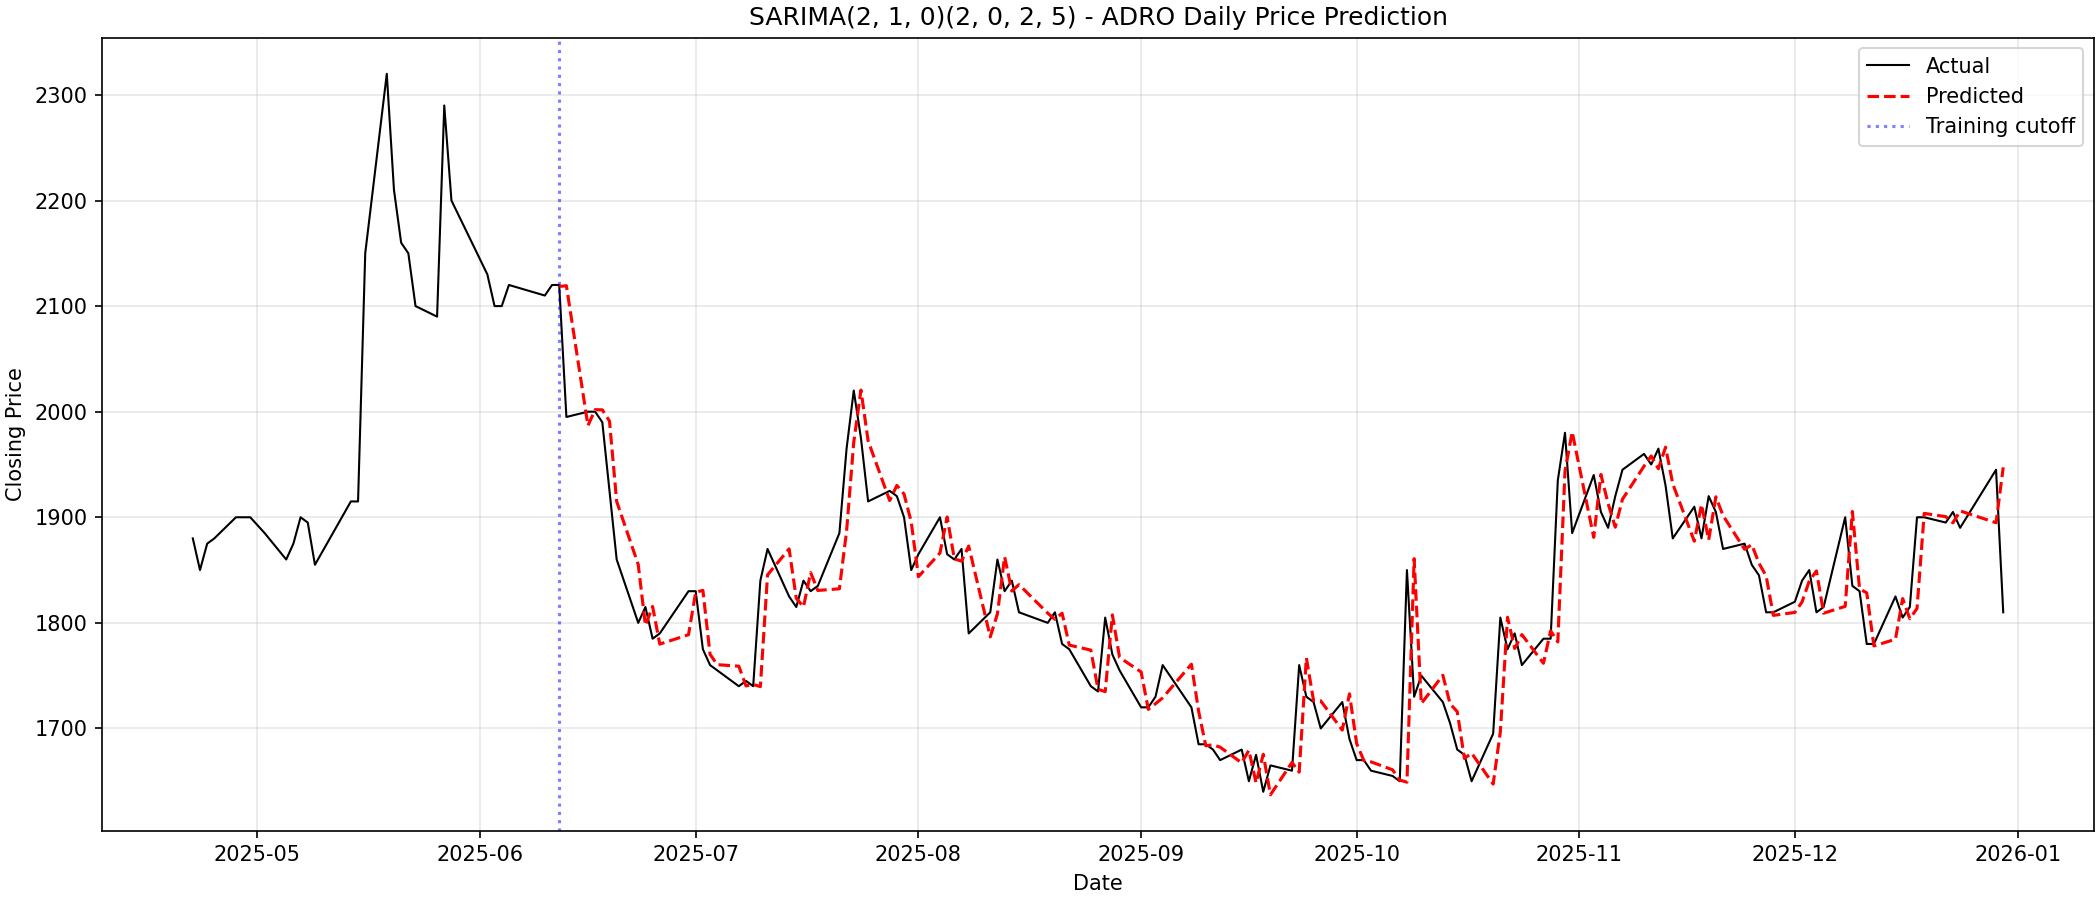
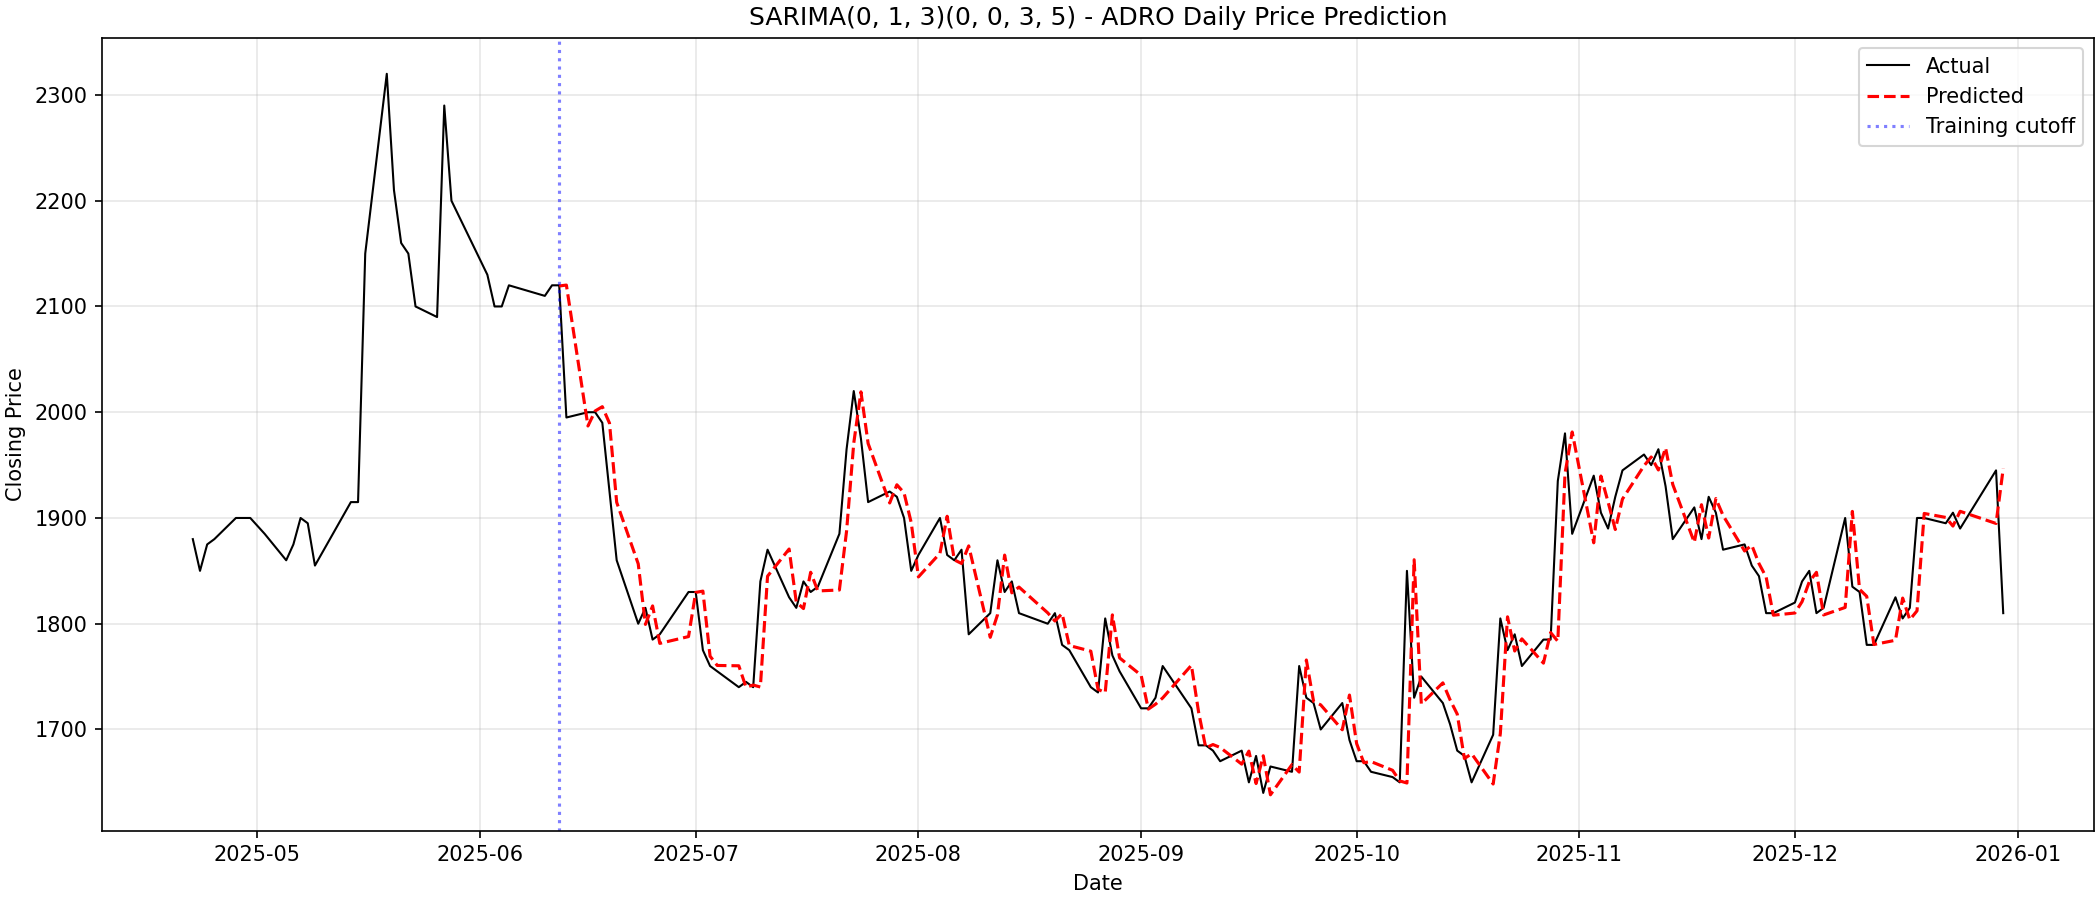
SARIMA Tuning - Added tuning process and analysis for SARIMA model - Four combinations of tuning were tested - Results saved in CSV format for further analysis - Regenerate plots and CSV for SARIMA model with parameters based on tuning results

diff --git a/tuning/SARIMA/sarima_tuning.py b/tuning/SARIMA/sarima_tuning.py
@@ -18,7 +18,7 @@ def list_ticker_name(tickers, processed_dataset_path):
         tickers.append(f.name)
 
 def load_data(ticker, processed_dataset_path):
-    dataset = pd.read_csv(processed_dataset_path / ticker, parse_dates = ["time"], index_col = "time")
+    dataset = pd.read_csv(processed_dataset_path / ticker, parse_dates=["time"], index_col="time")
     training_data, validation_data, testing_data = split(dataset["close"])
     return dataset, training_data, validation_data, testing_data
 
@@ -33,25 +33,34 @@ def find_d(time_series):
         p_value = adf_test(current)
         if p_value <= 0.05 or d >= 2:
             break
+
         current = current.diff().dropna()
         d += 1
+
     return d
 
-def grid_search(train_data, d, max_pq, criterion):
-    best_p, best_q = 0, 0
+def grid_search(train_data, d, s, criterion, D = 0):
+    best_pdq = (0, d, 0)
+    best_seasonal = (0, D, 0, s)
     best_score = float('inf')
-    for i in range(max_pq):
-        for j in range(max_pq):
-            try:
-                model = SARIMAX(train_data, order = (i, d, j), enforce_stationarity = False, enforce_invertibility = False)
-                fitted = model.fit(disp = False)
-                score = fitted.aic if criterion == "AIC" else fitted.bic
-                if score < best_score:
-                    best_score = score
-                    best_p, best_q = i, j
-            except Exception:
-                continue
-    return best_p, best_q
+    
+    for p in range(4):
+        for q in range(4):
+            for P in range(4):
+                for Q in range(4):
+                    try:
+                        model = SARIMAX(train_data, order = (p, d, q), seasonal_order = (P, D, Q, s), enforce_stationarity = False, enforce_invertibility = False)
+                        fitted = model.fit(disp = False)
+                        score = fitted.aic if criterion == "AIC" else fitted.bic
+                        if score < best_score:
+                            best_score = score
+                            best_pdq = (p, d, q)
+                            best_seasonal = (P, D, Q, s)
+
+                    except Exception:
+                        continue
+
+    return best_pdq, best_seasonal
 
 def run_config(config, tickers, processed_dataset_path):
     config_results = []
@@ -59,14 +68,17 @@ def run_config(config, tickers, processed_dataset_path):
         dataset, training_data, validation_data, testing_data = load_data(ticker, processed_dataset_path)
 
         d = find_d(training_data)
-        p, q = grid_search(training_data, d, config["max_pq"], config["criterion"])
+        order, seasonal = grid_search(training_data, d, config["s"], config["criterion"])
 
         history = list(training_data.values) + list(validation_data.values)
         prediction = []
         for i in range(len(testing_data)):
-            model = SARIMAX(history, order = (p, d, q), enforce_stationarity = False, enforce_invertibility = False)
-            fitted = model.fit(disp = False)
-            prediction.append(fitted.forecast(steps = 1)[0])
+            try:
+                model = SARIMAX(history, order = order, seasonal_order = seasonal, enforce_stationarity = False, enforce_invertibility = False)
+                fitted = model.fit(disp = False)
+                prediction.append(fitted.forecast(steps = 1)[0])
+            except Exception:
+                prediction.append(prediction[-1] if prediction else history[-1])
             history.append(testing_data.iloc[i])
 
         predictions = np.array(prediction)
@@ -76,9 +88,9 @@ def run_config(config, tickers, processed_dataset_path):
         config_results.append({
             "config": config["name"],
             "criterion": config["criterion"],
-            "range": f"0-{config['max_pq'] - 1}",
+            "s": config["s"],
             "ticker": ticker.replace(".csv", ""),
-            "order": f"({p},{d},{q})",
+            "order": f"{order}{seasonal}",
             "MAE": mae, "MSE": mse, "RMSE": rmse, "MAPE": mape,
         })
     return config_results
@@ -88,7 +100,7 @@ def plot_comparison(df, output_path):
     metrics = ["MAE", "MSE", "RMSE", "MAPE"]
 
     fig, axes = plt.subplots(2, 2, figsize = (14, 10), constrained_layout = True)
-    fig.suptitle("ARIMA Tuning - Average Metrics per Configuration", fontsize = 14)
+    fig.suptitle("SARIMA Tuning - Average Metrics per Configuration", fontsize = 14)
 
     for ax, metric in zip(axes.flat, metrics):
         avg = df.groupby("config")[metric].mean().reset_index()
@@ -103,19 +115,17 @@ def plot_comparison(df, output_path):
         for i, v in enumerate(avg[metric]):
             ax.text(i, v, f"{v:.2f}", ha = "center", va = "bottom", fontsize = 8)
 
-    fig.savefig(output_path / "arima_tuning_comparison.png", dpi = 150)
+    fig.savefig(output_path / "sarima_tuning_comparison.png", dpi = 150)
     plt.close()
 
 
-def arima_tuning():
-    # 6 configurations = 2 information criteria x 3 ranges
+def sarima_tuning():
+    # 6 configurations = 2 information criteria x 2 seasonal periods
     configs = [
-        {"name": "AIC_0-3", "criterion": "AIC", "max_pq": 4},
-        {"name": "AIC_0-5", "criterion": "AIC", "max_pq": 6},
-        {"name": "AIC_0-9", "criterion": "AIC", "max_pq": 10},
-        {"name": "BIC_0-3", "criterion": "BIC", "max_pq": 4},
-        {"name": "BIC_0-5", "criterion": "BIC", "max_pq": 6},
-        {"name": "BIC_0-9", "criterion": "BIC", "max_pq": 10},
+        # {"name": "AIC_5",  "criterion": "AIC", "s": 5},
+        # {"name": "AIC_20", "criterion": "AIC", "s": 20},
+        # {"name": "BIC_5",  "criterion": "BIC", "s": 5},
+        {"name": "BIC_20", "criterion": "BIC", "s": 20},
     ]
 
     tickers = []
@@ -130,9 +140,9 @@ def arima_tuning():
         config_results = run_config(config, tickers, processed_dataset_path)
         all_results.extend(config_results)
 
-        pd.DataFrame(all_results).to_csv(output_path / "arima_tuning.csv", index = False)
+        pd.DataFrame(all_results).to_csv(output_path / "sarima_tuning.csv", index=False)
 
     df = pd.DataFrame(all_results)
     plot_comparison(df, output_path)
 
-arima_tuning()
+sarima_tuning()

diff --git a/models/SARIMA/sarima.py b/models/SARIMA/sarima.py
@@ -23,7 +23,7 @@ def load_data(ticker, processed_dataset_path):
     return dataset, training_data, validation_data, testing_data
 
 def adf_test(time_series):
-    result = adfuller(time_series) # (Test Statistics, p-value, #Lags used, Number of Observations Used)
+    result = adfuller(time_series)
     return result[1]
 
 def find_d(time_series):
@@ -39,20 +39,20 @@ def find_d(time_series):
     
     return d
 
-def aic_grid_search(train_data, d, m = 5, D = 0):
+def bic_grid_search(train_data, d, m = 5, D = 0):
     best_pdq = (0, d, 0)
     best_seasonal = (0, D, 0, m)
-    best_aic = float('inf')
+    best_bic = float('inf')
 
-    for p in range(3):
-        for q in range(3):
-            for P in range(3):
-                for Q in range(3):
+    for p in range(4):
+        for q in range(4):
+            for P in range(4):
+                for Q in range(4):
                     try:
-                        model = SARIMAX(train_data, order=(p, d, q), seasonal_order = (P, D, Q, m))
-                        fitted = model.fit(disp=False)
-                        if fitted.aic < best_aic:
-                            best_aic = fitted.aic
+                        model = SARIMAX(train_data, order = (p, d, q), seasonal_order = (P, D, Q, m), enforce_stationarity = False, enforce_invertibility = False)
+                        fitted = model.fit(disp = False)
+                        if fitted.bic < best_bic:
+                            best_bic = fitted.bic
                             best_pdq = (p, d, q)
                             best_seasonal = (P, D, Q, m)
 
@@ -75,7 +75,7 @@ def plot_results(dataset, ticker_name, testing_data, predictions, order, seasona
     plt.ylabel("Closing Price")
     plt.legend()
 
-    plt.grid(True, alpha=0.3)
+    plt.grid(True, alpha = 0.3)
 
     target_path = Path(__file__).parent.parent.parent / "results" / "plots" / "SARIMA"
     plt.savefig(target_path / f"{ticker_name}.png", dpi = 150)
@@ -91,9 +91,8 @@ def sarima():
     for ticker in tickers:
         dataset, training_data, validation_data, testing_data = load_data(ticker, processed_dataset_path)
 
-        # Find best parameter
         d = find_d(training_data)
-        order, seasonal = aic_grid_search(training_data, d)
+        order, seasonal = bic_grid_search(training_data, d)
 
         # Model
         history = list(training_data.values) + list(validation_data.values)

diff --git a/tuning/SARIMA/analyze_tuning.py b/tuning/SARIMA/analyze_tuning.py
@@ -1,0 +1,32 @@
+import sys
+from pathlib import Path
+
+import pandas as pd
+
+def analyze_tuning(csv_path):
+    df = pd.read_csv(csv_path)
+
+    avg_metrics = (
+        df.groupby("config")[["MAE", "MSE", "RMSE", "MAPE"]]
+        .mean()
+        .round(4)
+        .reset_index()
+    )
+
+    orders = df.pivot(index = "ticker", columns = "config", values = "order")
+
+
+    output_dir = Path(csv_path).parent
+    avg_metrics.to_csv(output_dir / "sarima_tuning_averages.csv", index = False)
+    orders.to_csv(output_dir / "sarima_tuning_orders.csv")
+
+    return avg_metrics, orders
+
+
+if __name__ == "__main__":
+    csv_path = Path(__file__).parent / "results" / "sarima_tuning.csv"
+
+    if len(sys.argv) > 1:
+        csv_path = Path(sys.argv[1])
+
+    analyze_tuning(csv_path)

diff --git a/tuning/SARIMA/sarima_tuning.md b/tuning/SARIMA/sarima_tuning.md
@@ -1,0 +1,116 @@
+# SARIMA Tuning Comparison
+Documentation of hyperparameter tuning experiments for the SARIMA model on daily stock price forecasting. The goal of this experiment is to test the model's sensitivity to hyperparameter choices, rather than to maximize absolute performance.
+
+## 1. Parameters
+SARIMA has more parameters that can be tested (p, d, q, P, D, Q, S) than ARIMA. However, based on the tuning experiment of SARIMA, widening the grid search range beyond 0-3 provided no improvement in accuracy. The tuning focuses on the seasonal-specific parameters unique to SARIMA and the selection criterion.
+
+This experiment tests the following parameters:
+| No | Parameter | Values Tested | Reason |
+|---|---|---|---|
+| 1 | Selection criterion | AIC, BIC | To test whether the choice of information criterion, AIC (favors prediction accuracy) vs BIC (penalizes model complexity more heavily), affects the selected orders and performance |
+| 2 | Seasonal period  | 5, 20 | To test whether weekly (5 workdays) or monthly (20 workdays) seasonality can produce results with better performance |
+
+Other parameters (ADF threshold = 0.05, maximum d = 2) are held fixed, following standard practice in comparable literatures and research papers. To save time and computing power, grid search range for SARIMA are fixed at 0-3 since it has been tested in ARIMA before.
+
+## 2. Experiment Configurations
+| Configuration | Information Criterion | Seasonality |
+|---|---|---|
+| AIC_5 | AIC | 5 |
+| AIC_20 | AIC | 20 |
+| BIC_5 | BIC | 5 |
+| BIC_20 | BIC | 20 |
+
+Each configuration is run across all 10 tickers using a (80% training/10% validation/10% testing) split.
+
+## 3. Results by Configuration
+### 3.1 Average Metrics per Configuration
+| Configuration | MAE (avg) | MSE (avg) | RMSE (avg) | MAPE (avg) |
+|---|---|---|---|---|
+| AIC_5 | 55.0788 | 9387.5498 | 78.2428 | 1.3812 |
+| AIC_20 | 55.1618 | 9431.6902 | 78.3329 | 1.3842 |
+| BIC_5 | 55.3181 | 9316.2038 | 78.2773 | 1.4009 |
+| BIC_20 | 55.1382 | 9435.877 | 78.3542 | 1.3836 |
+
+### 3.2 Selected Orders per Configuration
+This table shows whether different criteria / ranges select different orders.
+
+| Ticker | AIC_5 | AIC_20 | BIC_5 | BIC_20 |
+|---|---|---|---|---|
+| ADRO | (0,1,3)(0,0,3,5) | (0,1,3)(0,0,3,20) | (0,1,3)(0,0,3,5) | (0,1,3)(0,0,3,20) |
+| BBCA | (0,1,3)(2,0,3,5) | (0,1,3)(0,0,3,20) | (0,1,3)(2,0,3,5) | (0,1,3)(0,0,3,20) |
+| BBNI | (0,1,3)(2,0,3,5) | (0,1,3)(0,0,3,20) | (0,1,3)(0,0,3,5) | (0,1,3)(0,0,3,20) |
+| BBRI | (3,1,3)(3,0,3,5) | (2,1,3)(3,0,3,20) | (0,1,3)(0,0,3,5) | (0,1,3)(0,0,3,20) |
+| BBTN | (1,0,3)(1,0,3,5) | (1,0,3)(1,0,3,20) | (1,0,3)(0,0,3,5) | (1,0,3)(1,0,3,20) |
+| BMRI | (0,1,3)(3,0,3,5) | (0,1,3)(0,0,3,20) | (0,1,3)(0,0,3,5) | (0,1,3)(0,0,3,20) |
+| ITMG | (2,1,3)(0,0,3,5) | (1,1,3)(0,0,3,20) | (0,1,3)(0,0,3,5) | (1,1,3)(0,0,3,20) |
+| MEDC | (2,1,3)(0,0,3,5) | (2,1,3)(0,0,3,20) | (0,1,3)(0,0,3,5) | (1,1,3)(0,0,3,20) |
+| PGAS | (1,0,3)(1,0,3,5) | (3,0,3)(1,0,3,20) | (1,0,1)(0,0,3,5) | (3,0,0)(3,0,0,20) |
+| PTBA | (0,1,3)(1,0,3,5) | (0,1,3)(0,0,3,20) | (0,1,3)(0,0,3,5) | (0,1,3)(0,0,3,20) |
+
+Runtime: 4800 seconds (AIC_5), 72000 seconds (AIC_20), 4200 seconds (BIC_5), 43589.03 seconds (BIC_20)
+
+### 3.3 Plot
+The results produced by tuning can be compiled and summarised into a 2x2 plot:
+
+![SARIMA Tuning Plot](results/SARIMA_tuning_comparison.png)
+
+## 4. Analysis
+This is a brief analysis of the results produced by tuning.
+
+### 4.1 Effect of Selection Criterion (AIC vs BIC)
+The use of AIC or BIC as the selection criterion have negligible effect on performance. Averaged across both configurations, AIC achieved MAPE of 1.3827% MAPE and BIC 1.3923%. The difference is less than 0.01 percentage points. BIC selected simpler orders, for example in ticker PGAS: BIC_5 selected (1,0,1), where AIC_5 selected (1,0,3). However, this simplification produced no meaningful change in accuracy.
+
+### 4.2 Effect of Seasonal Period
+The seasonal period had no meaningful effect on accuracy: weekly(s=5) averaged 1.3911% MAPE and monthly(s=20) averaged 1.3839%, a difference of less than 0.01 percentage points. About 68% of all fitted models selected a seasonal autoregressive order (P) of 0, indicating the models found little to no exploitable seasonal structure. This strongly suggests daily stock prices exhibit weak seasonality at both weekly and monthly scales, consistent with their near-random-walk behavior. The seasonal component of SARIMA therefore provided little benefit over the non-seasonal ARIMA structure.
+
+### 4.3 Cross-Sector Consistency
+Under AIC_5, energy tickers averaged 1.3354% MAPE and banking tickers 1.4269%, another difference of less than 0.1 percentage points, consistent across configurations (BIC_5: energy 1.3523%, banking 1.4496%). Similar to ARIMA, individual ticker characteristics influenced forecasting error more than the sector it is in.
+
+## 5. Conclusion
+Each SARIMA tuning generally performs the same with all four configurations producing average MAPE within a narrow band (1.3812%–1.4009%). The majority of models selected a seasonal AR order of 0, indicating minimal exploitable seasonality in daily stock prices at either weekly or monthly scales. SARIMA's added seasonal complexity thus provided little benefit over the simpler ARIMA model. The seasonal grid search was also computationally expensive, AIC_20 required approximately 20 hours, but yielded no accuracy gain. These findings reinforce the ARIMA conclusion that daily stock prices are adequately modeled by low-order, largely non-seasonal terms and offer limited predictable structure for traditional models to exploit. BIC with weekly seasonality (s=5) was selected for consistency with the ARIMA configuration and BIC's preference for simpler orders. As all configurations performed within a negligible margin (1.38%–1.40% MAPE), this choice prioritizes methodological consistency and model simplicity without sacrificing accuracy.
+
+## Raw Full Results
+Complete raw results are available [here](results/SARIMA_tuning.csv).
+
+| config | criterion | s | ticker | order | MAE | MSE | RMSE | MAPE |
+|---|---|---|---|---|---|---|---|---|
+| AIC_5 | AIC | 5 | ADRO | (0,1,3)(0,0,3,5) | 31.94171447583797 | 2093.5149230797138 | 45.75494424736756 | 1.7444289402533657 |
+| AIC_5 | AIC | 5 | BBCA | (0,1,3)(2,0,3,5) | 98.33545772652488 | 17643.24548150585 | 132.82787915759948 | 1.1970100569439128 |
+| AIC_5 | AIC | 5 | BBNI | (0,1,3)(2,0,3,5) | 57.426403123386166 | 6369.977238642882 | 79.8121371637352 | 1.3586820301500169 |
+| AIC_5 | AIC | 5 | BBRI | (3,1,3)(3,0,3,5) | 53.10697723179472 | 4988.64057638807 | 70.63030919080045 | 1.3748669597272545 |
+| AIC_5 | AIC | 5 | BBTN | (1,0,3)(1,0,3,5) | 23.040027268647197 | 1052.0101737663197 | 32.434706315401094 | 1.8971281494482535 |
+| AIC_5 | AIC | 5 | BMRI | (0,1,3)(3,0,3,5) | 61.37869634904717 | 6648.415240886718 | 81.53781479097117 | 1.3070517232174979 |
+| AIC_5 | AIC | 5 | ITMG | (2,1,3)(0,0,3,5) | 153.81471614165008 | 50619.98850864356 | 224.9888630769167 | 0.6809903076107554 |
+| AIC_5 | AIC | 5 | MEDC | (2,1,3)(0,0,3,5) | 25.502477703429776 | 1216.9209706057748 | 34.8843943706319 | 1.9318339290673971 |
+| AIC_5 | AIC | 5 | PGAS | (1,0,3)(1,0,3,5) | 23.54889501850553 | 1124.218427123798 | 33.529366637677455 | 1.3772312681954366 |
+| AIC_5 | AIC | 5 | PTBA | (0,1,3)(1,0,3,5) | 22.692379819504925 | 2118.5664760506297 | 46.02788802509441 | 0.9424750256621475 |
+| AIC_20 | AIC | 20 | ADRO | (0,1,3)(0,0,3,20) | 32.17725813323305 | 2087.221099670115 | 45.68611495487568 | 1.7568619082671144 |
+| AIC_20 | AIC | 20 | BBCA | (0,1,3)(0,0,3,20) | 98.62778022092081 | 17789.121207717613 | 133.3758644122602 | 1.2000365794797665 |
+| AIC_20 | AIC | 20 | BBNI | (0,1,3)(0,0,3,20) | 57.41526694909409 | 6363.954834615436 | 79.77439961927283 | 1.3587312064348802 |
+| AIC_20 | AIC | 20 | BBRI | (2,1,3)(3,0,3,20) | 53.49590690108382 | 4951.915197484012 | 70.36984579693217 | 1.3839464919949547 |
+| AIC_20 | AIC | 20 | BBTN | (1,0,3)(1,0,3,20) | 22.783127699663815 | 1031.2582139658398 | 32.11320933768283 | 1.8769519581766931 |
+| AIC_20 | AIC | 20 | BMRI | (0,1,3)(0,0,3,20) | 61.22987521777102 | 6680.9478601506335 | 81.7370653996743 | 1.3051222811489764 |
+| AIC_20 | AIC | 20 | ITMG | (1,1,3)(0,0,3,20) | 153.7846350649683 | 50941.121748329264 | 225.70139952674035 | 0.6807958962203828 |
+| AIC_20 | AIC | 20 | MEDC | (2,1,3)(0,0,3,20) | 25.755307615772686 | 1225.501576796988 | 35.007164649496936 | 1.9512006419455326 |
+| AIC_20 | AIC | 20 | PGAS | (3,0,3)(1,0,3,20) | 23.694130664895056 | 1117.6137046328738 | 33.4307299446613 | 1.3879914784467515 |
+| AIC_20 | AIC | 20 | PTBA | (0,1,3)(0,0,3,20) | 22.654428789810552 | 2128.2466235830166 | 46.132923423332024 | 0.9403456563503088 |
+| BIC_5 | BIC | 5 | ADRO | (0,1,3)(0,0,3,5) | 31.94171447583797 | 2093.5149230797138 | 45.75494424736756 | 1.7444289402533657 |
+| BIC_5 | BIC | 5 | BBCA | (0,1,3)(2,0,3,5) | 98.33545772652488 | 17643.24548150585 | 132.82787915759948 | 1.1970100569439128 |
+| BIC_5 | BIC | 5 | BBNI | (0,1,3)(0,0,3,5) | 57.048520487603454 | 6330.685506817839 | 79.56560504902755 | 1.3498382946608405 |
+| BIC_5 | BIC | 5 | BBRI | (0,1,3)(0,0,3,5) | 53.16903577934641 | 4981.8998455506335 | 70.58257465940608 | 1.3766742696978438 |
+| BIC_5 | BIC | 5 | BBTN | (1,0,3)(0,0,3,5) | 24.574879236913997 | 1168.7912525138345 | 34.187589159135435 | 2.0202497532181214 |
+| BIC_5 | BIC | 5 | BMRI | (0,1,3)(0,0,3,5) | 61.22110128563467 | 6625.24986207086 | 81.3956378565268 | 1.3041982464663222 |
+| BIC_5 | BIC | 5 | ITMG | (0,1,3)(0,0,3,5) | 153.85762855074077 | 49803.83124546446 | 223.16771998984186 | 0.6812466460398745 |
+| BIC_5 | BIC | 5 | MEDC | (0,1,3)(0,0,3,5) | 25.794269435808744 | 1224.8166275952865 | 34.99738029617769 | 1.9558621771153033 |
+| BIC_5 | BIC | 5 | PGAS | (1,0,1)(0,0,3,5) | 24.46849424911103 | 1182.1848933552246 | 34.382915719223476 | 1.4338808532521223 |
+| BIC_5 | BIC | 5 | PTBA | (0,1,3)(0,0,3,5) | 22.76990903493436 | 2107.818354335285 | 45.91098293802133 | 0.9459818224124046 |
+| BIC_20 | BIC | 20 | ADRO | (0,1,3)(0,0,3,20) | 32.17725813323305 | 2087.221099670115 | 45.68611495487568 | 1.7568619082671144 |
+| BIC_20 | BIC | 20 | BBCA | (0,1,3)(0,0,3,20) | 98.62778022092081 | 17789.121207717613 | 133.3758644122602 | 1.2000365794797665 |
+| BIC_20 | BIC | 20 | BBNI | (0,1,3)(0,0,3,20) | 57.41526694909409 | 6363.954834615436 | 79.77439961927283 | 1.3587312064348802 |
+| BIC_20 | BIC | 20 | BBRI | (0,1,3)(0,0,3,20) | 53.38715700236791 | 5004.463064774023 | 70.74222971305063 | 1.3817860741937014 |
+| BIC_20 | BIC | 20 | BBTN | (1,0,3)(1,0,3,20) | 22.783127699663815 | 1031.2582139658398 | 32.11320933768283 | 1.8769519581766931 |
+| BIC_20 | BIC | 20 | BMRI | (0,1,3)(0,0,3,20) | 61.22987521777102 | 6680.9478601506335 | 81.7370653996743 | 1.3051222811489764 |
+| BIC_20 | BIC | 20 | ITMG | (1,1,3)(0,0,3,20) | 153.7846350649683 | 50941.121748329264 | 225.70139952674035 | 0.6807958962203828 |
+| BIC_20 | BIC | 20 | MEDC | (1,1,3)(0,0,3,20) | 25.8207439643884 | 1224.2182174653262 | 34.98882989562992 | 1.9581116629443303 |
+| BIC_20 | BIC | 20 | PGAS | (3,0,0)(3,0,0,20) | 23.501993603272396 | 1108.216902153685 | 33.28989189158903 | 1.3775855806648438 |
+| BIC_20 | BIC | 20 | PTBA | (0,1,3)(0,0,3,20) | 22.654428789810552 | 2128.2466235830166 | 46.132923423332024 | 0.9403456563503088 |

diff --git a/tuning/ARIMA/arima_tuning.md b/tuning/ARIMA/arima_tuning.md
@@ -22,7 +22,7 @@ Other parameters (ADF threshold = 0.05, maximum d = 2) are held fixed, following
 | BIC_0-5 | BIC | 0–5 |
 | BIC_0-9 | BIC | 0–9 |
 
-Each configuration is run across all 10 tickers using an (80% training/10% validation/10% testing) split.
+Each configuration is run across all 10 tickers using a (80% training/10% validation/10% testing) split.
 
 ## 3. Results by Configuration
 ### 3.1 Average Metrics per Configuration
